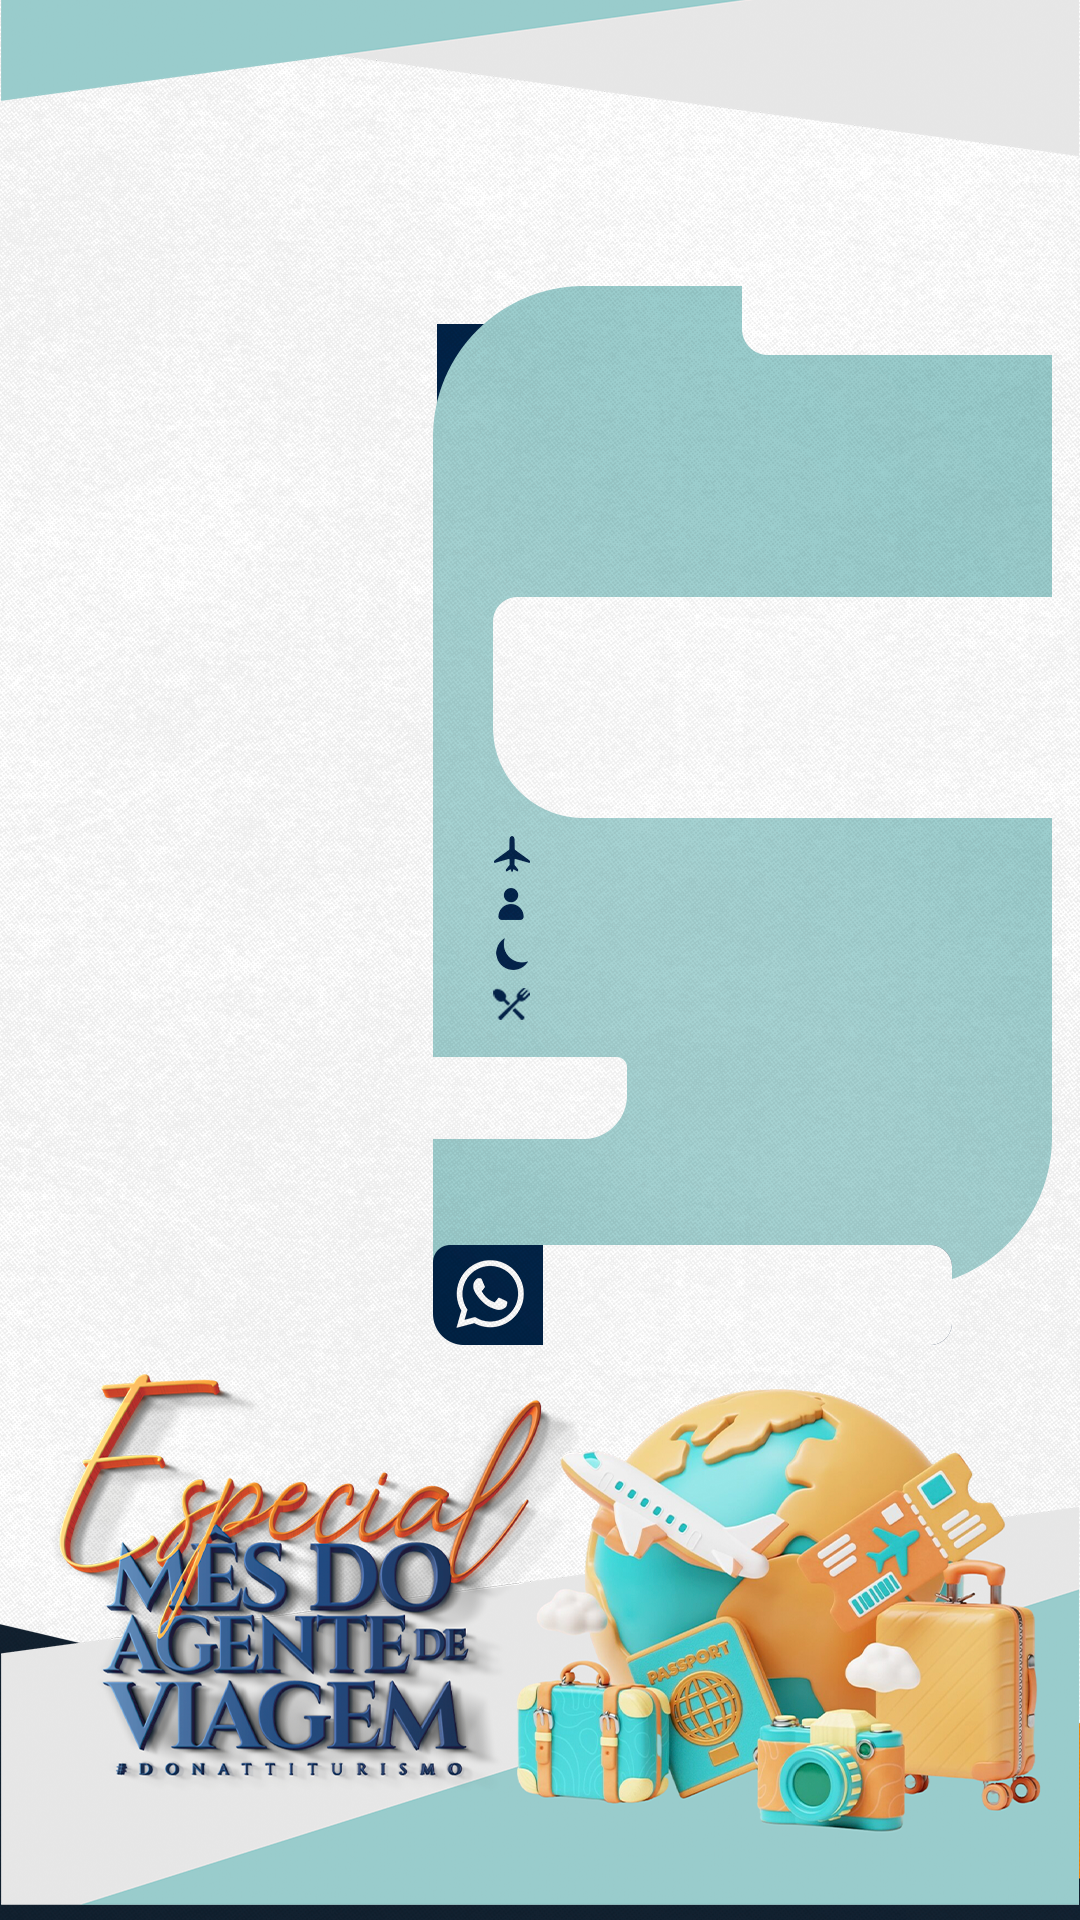
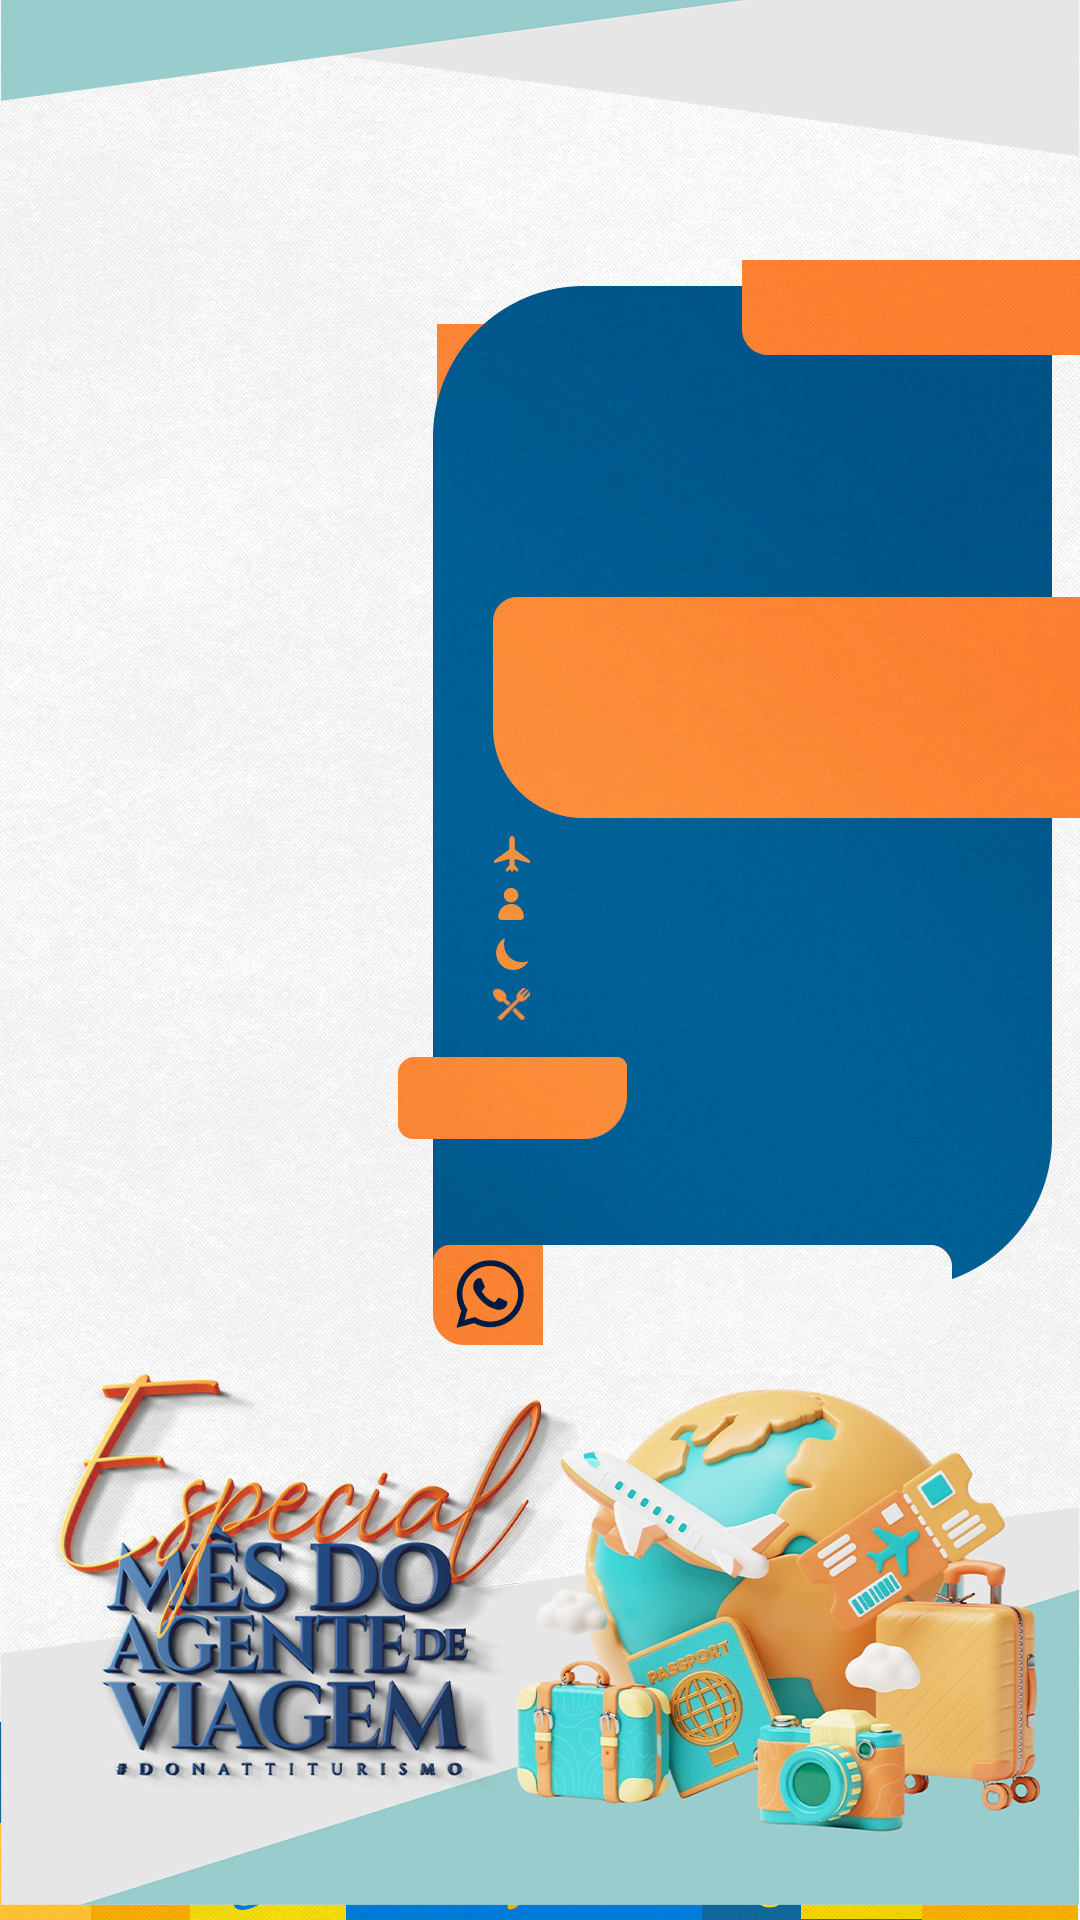
Update PromoImageGenerator text colors for improved visibility

diff --git a/src/components/promos/PromoImageGenerator.tsx b/src/components/promos/PromoImageGenerator.tsx
@@ -217,7 +217,7 @@ export function PromoImageGenerator({ promo }: PromoImageGeneratorProps) {
               </div>
 
               {/* Destination */}
-              <div className="absolute top-[360px] left-[480px] text-[#002043] text-6xl font-bold">
+              <div className="absolute top-[360px] left-[480px] text-[#ea823b] text-6xl font-bold">
                 {promo.DESTINO}
               </div>
 
@@ -227,7 +227,7 @@ export function PromoImageGenerator({ promo }: PromoImageGeneratorProps) {
               </div>
 
               {/* Date */}
-              <div className="absolute top-[530px] left-[480px] text-[#002043] text-4xl font-medium">
+              <div className="absolute top-[530px] left-[480px] text-[#ea823b] text-4xl font-medium">
                 {formatDateRange()}
               </div>
 